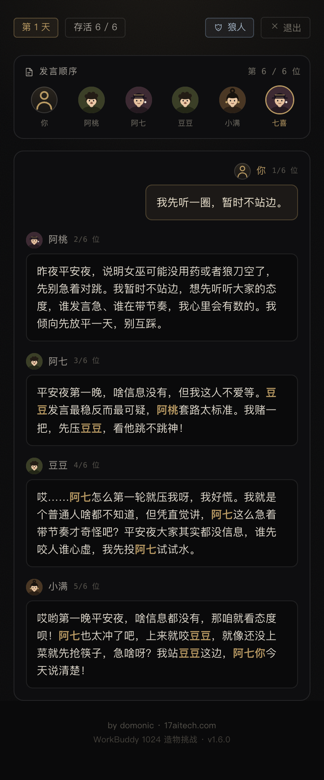
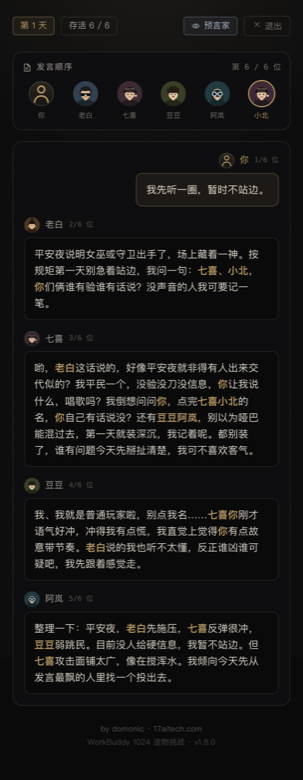
docs: 补夜幕截图与规范，截图脚本支持抓夜晚画面
- tools/screens.mjs 增加 captureNight：边用接口推进对局边看页面上有没有过场/夜幕条，
  抓到就截 night.png；抓不到不算失败（真人可能正好是夜里要决策的角色）
- docs/standard/DESIGN-V2.md 新增「夜幕」一节：构图、仪式性衬线、节奏（静场/句间/最短/上限）、
  永不阻塞决策、程序化声音与静音约定；检查清单补两条
- README 界面预览加「夜晚过场」；docs/PRD.md R6.4 标为已完成并补 v1.9 路线图行
- docs/PLAN-REVIEW.md 记录 P1-2 进展与剩余项（结算战绩卡）
- docs/screenshots 重新生成（含 night.png）

diff --git a/docs/PRD.md b/docs/PRD.md
@@ -99,7 +99,7 @@
 | 6.1 发言顺序可见 | 发言前推送顺序条（编号头像条），当前发言者高亮+进度（第 i/N 位） | ✅ v1.3 |
 | 6.2 发言中名字高亮 | 发言文本中出现的玩家名金色高亮（发言记录+舞台均生效） | ✅ v1.3 |
 | 6.3 投票过程可视化 | 实时票型条 + 座位得票角标（事件到达即增长） | v1.4 ✅ |
-| 6.4 夜晚氛围 | 法官口令播报（动画/音效留待后续） | v1.4 部分 |
+| 6.4 夜晚氛围 | 法官口令播报 + 夜幕过场（月亮 / 口令逐句落下 / 低频环境音，可静音） | ✅ v1.9 |
 | 6.5 死亡回顾 | 结算页回合时间轴（玩家看公开信息、观战看死因与用药） | v1.4 ✅ |
 | 6.6 移动端适配 | 375/390/320 与横屏走查通过，无横向溢出 | v1.4 ✅ |
 
@@ -128,6 +128,7 @@
 | v1.8 | 角色补全 | 白痴（翻牌免死/失去投票权）、长老（首刀免疫 + 好人技能封印）、黑狼王（出局开枪）；10/12 人局推荐牌组重排 | ✅ 本轮 |
 | v1.7 | AI 人格差异化 | 信息边界复核 + traits（牌感/风格/话量/攻击性/易受影响）+ 记忆窗口与推理深度分层（docs/AI-PERSONA.md） | ✅ 本轮 |
 | v1.6.2 | 安全与韧性 | 房间弃局回收、开局限流、请求体上限、匿名切模型收紧、prompt 注入防线、安全响应头（docs/standard/SECURITY.md） | ✅ 已上线 |
+| v1.9 | 夜晚氛围 | R6.4 夜幕过场：全屏压暗 + 月相 + 口令逐句 + 程序化环境音（可静音 / 可跳过 / 尊重减少动效），夜里常驻夜幕条 | ✅ 本轮 |
 | v2.0 | 真人多人 | R7 真人房、排行、对局回放 | 参赛后 |
 
 ## 五、开放问题（待确认）

diff --git a/docs/PLAN-REVIEW.md b/docs/PLAN-REVIEW.md
@@ -15,6 +15,13 @@
 > - 白痴 / 长老 / 黑狼王 三个角色已实装：引擎结算 + 事件 + AI 身份判定 + 配置页解锁 + 规则单测
 > - 推荐牌组重排：9 人上白痴、10 人上黑狼王、12 人上长老，10/12 人局不再是「更多平民」
 > - 剩余：摄梦人（死亡链式结算，成本最高）与 003C 观感（夜晚过场、结算卡）
+>
+> **2026-10-23 更新（v1.9.0 完成 P1-2 夜晚过场）**
+> - 夜幕过场：全屏压暗 + 月盘 + 口令逐句落下 + 程序化低频环境音（无音频文件），可静音 / 可跳过 / 尊重减少动效
+> - 门控写死成纯函数（`client/src/lib/night.ts`）：天亮、玩家待决策、同夜已演三种情况一律不拉幕；
+>   最短停留 1.1s 防「闪黑屏」，上限 9s 防长期盖屏，超时交给夜里的常驻夜幕条
+> - 夜里常驻夜幕条替代上一轮旧发言（原来夜里整屏是过期内容，看着像卡住）
+> - 剩余 003C 第二项：结算页「战绩卡」可保存图片（传播用）
 
 ## 一、结论
 
